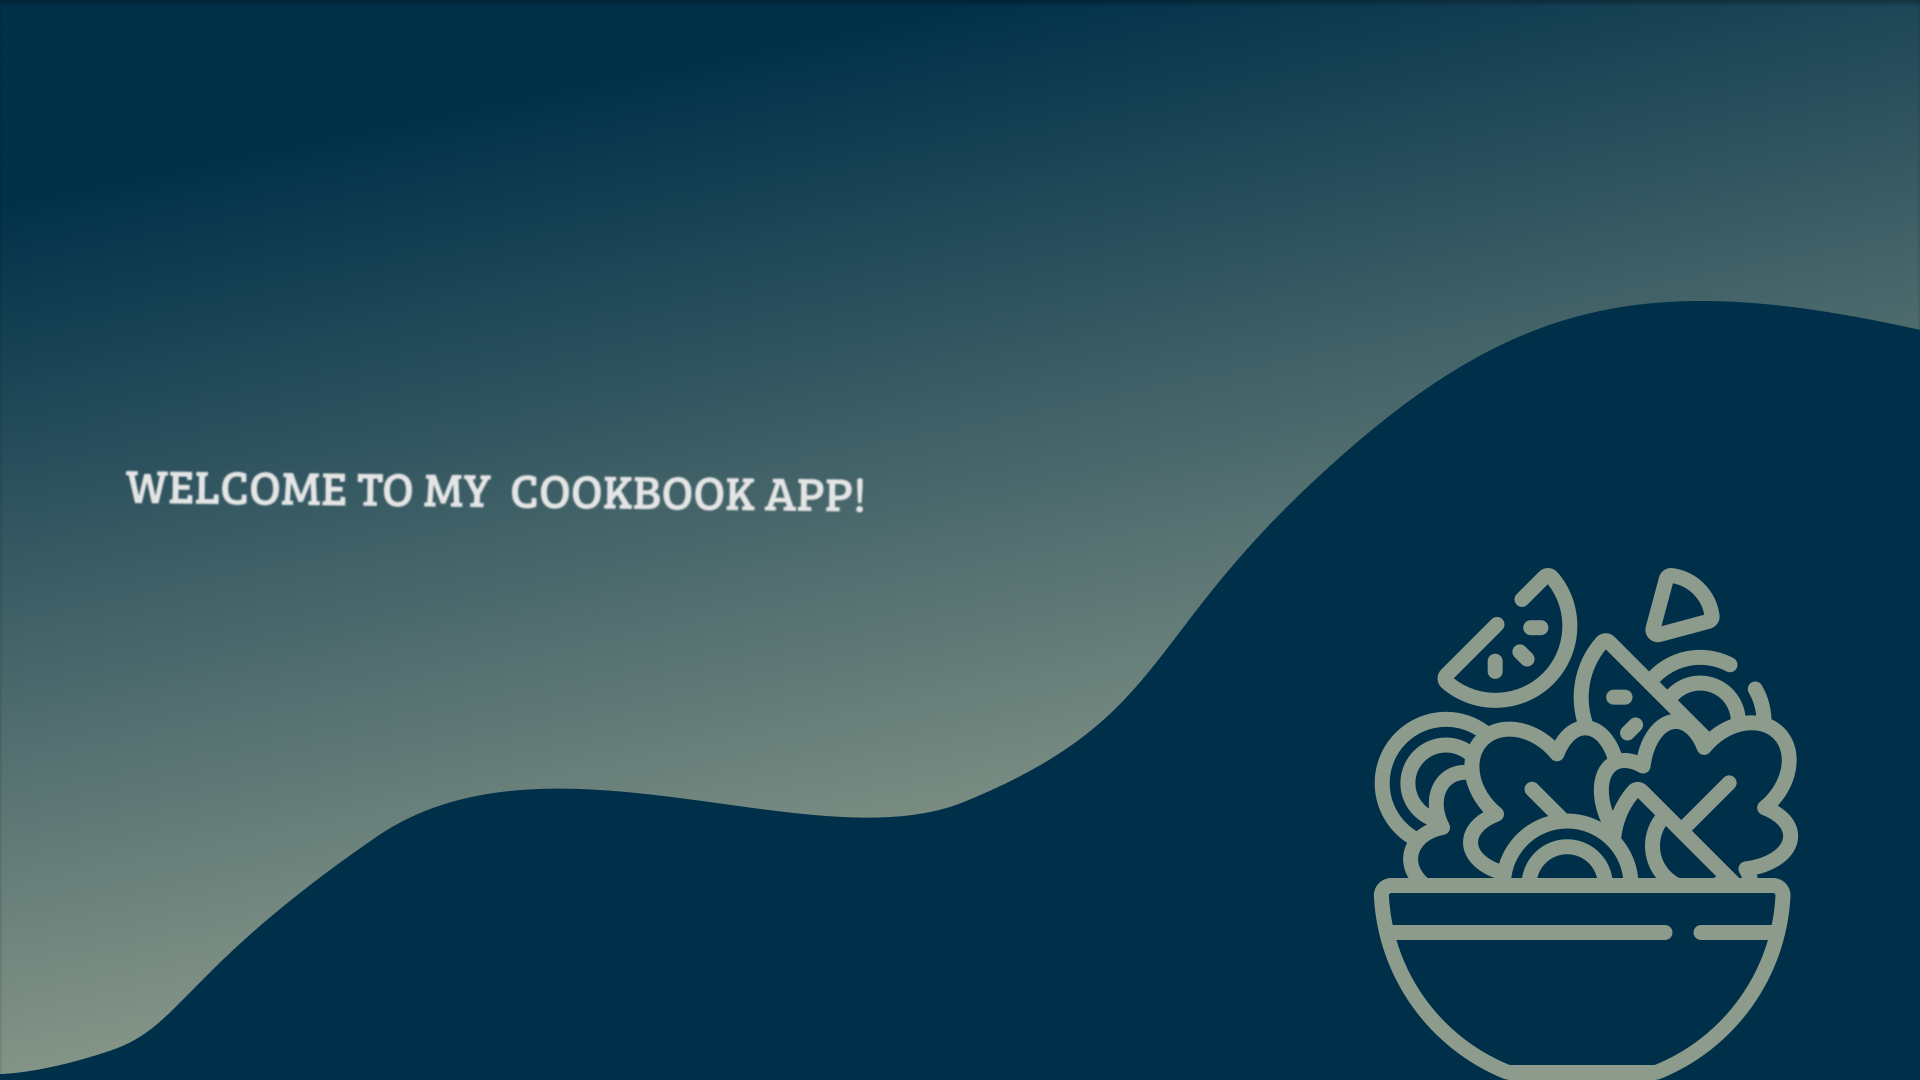
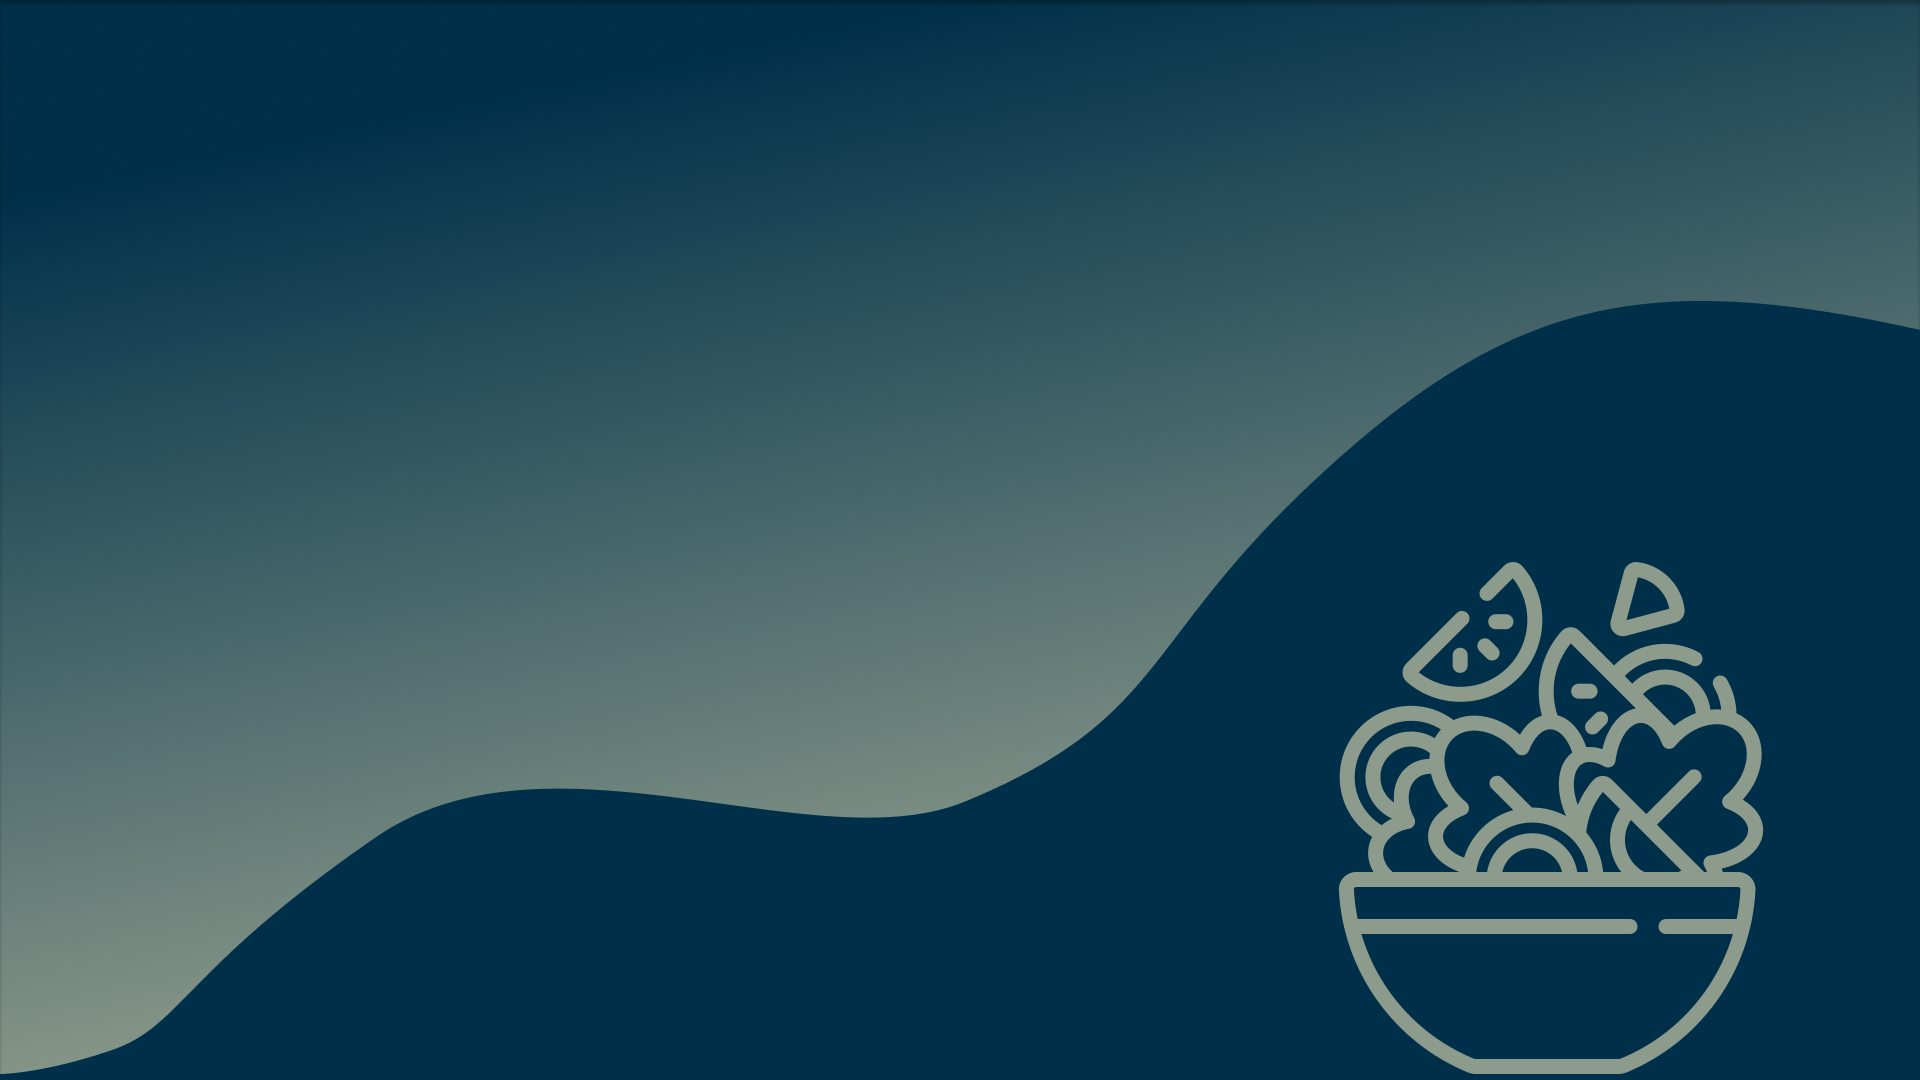
fix: Make the app entire responsive

Changed region(s): [[0.6875, 0.5194, 0.9375, 1.0], [0.0625, 0.4278, 0.4688, 0.4889]]

diff --git a/src/Components/CardRecipe.js b/src/Components/CardRecipe.js
@@ -11,7 +11,7 @@ function CardRecipe(props) {
     return (
     <Card className="card" sx={{ maxWidth: 300 }} onClick={e => props.onClick(e, props.recipeid, props.title, props.time, props.ingredients, props.prepare)}>
             <CardActionArea>
-                <CardMedia component="img" height="140" image={props.media} alt="Carbonara Paste" />
+                <CardMedia component="img" height="140" image={props.media} alt="Image with Food" />
                 <CardContent>
                     <Typography gutterBottom variant="h5" component="div">{props.title}</Typography>
                     <Typography variant="body2" color="text.secondary">{props.time}</Typography>

diff --git a/src/Styles/App.css b/src/Styles/App.css
@@ -58,10 +58,18 @@
   background-size: cover;
   background-repeat: no-repeat;
   background-position: 100% 100%;
+  overflow-x: hidden;
 }
 
-@media only screen and (max-height: 500px) {
-  
+.home-text {
+  color: #EAE2B7;
+  position: relative;
+  right: -10px;
+  top: 20%;
+  transform: translateY(-20%);
+}
+
+@media only screen and (max-width: 500px) {
   .cardPage {
     height: 100%;
   }

diff --git a/src/Pages/Home.js b/src/Pages/Home.js
@@ -6,6 +6,7 @@ function Home() {
     return (
         <div className="background-home">
             <Navbar/>
+            <h2 className="home-text">WELCOME TO MY COOKBOOK APP!</h2>
         </div>
     )
 }
